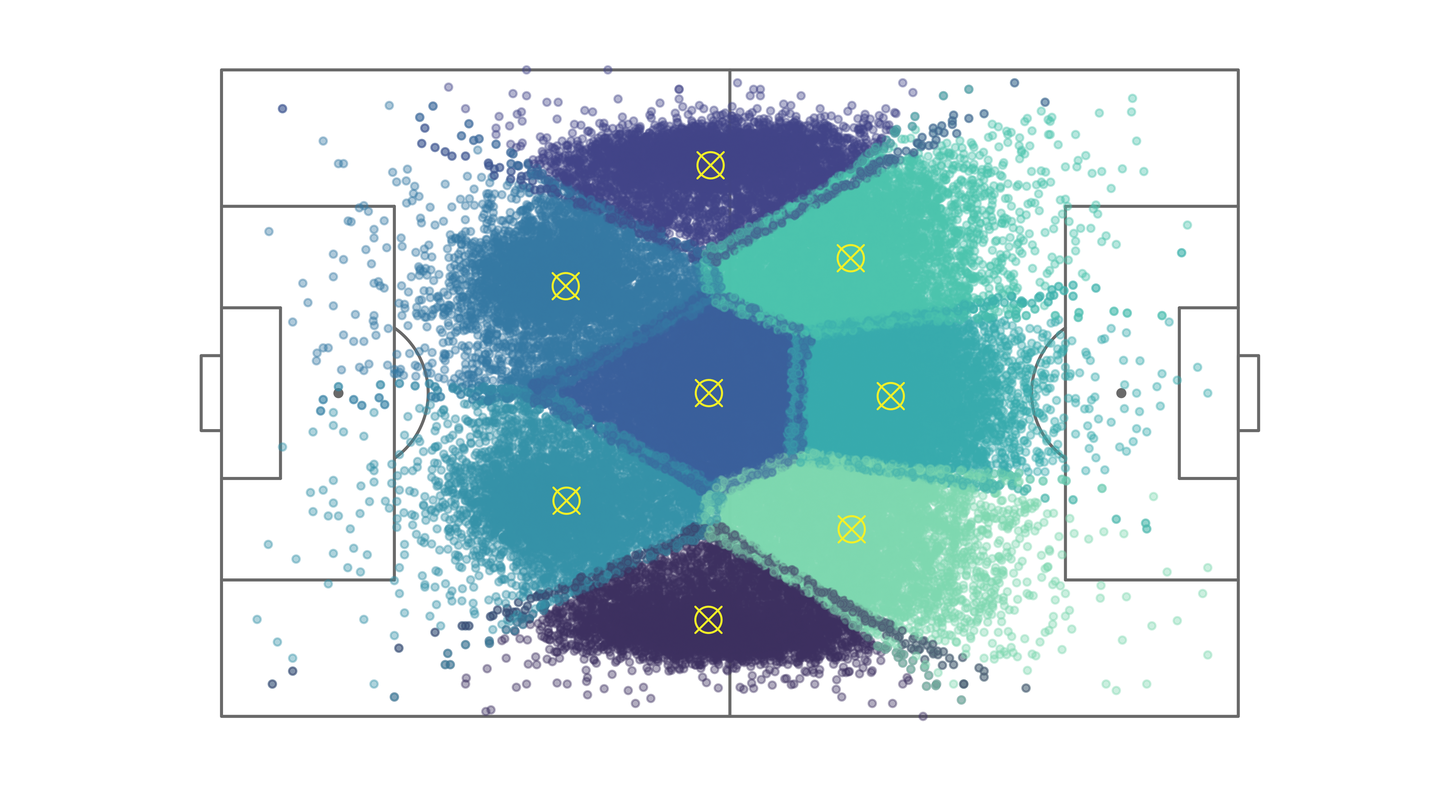
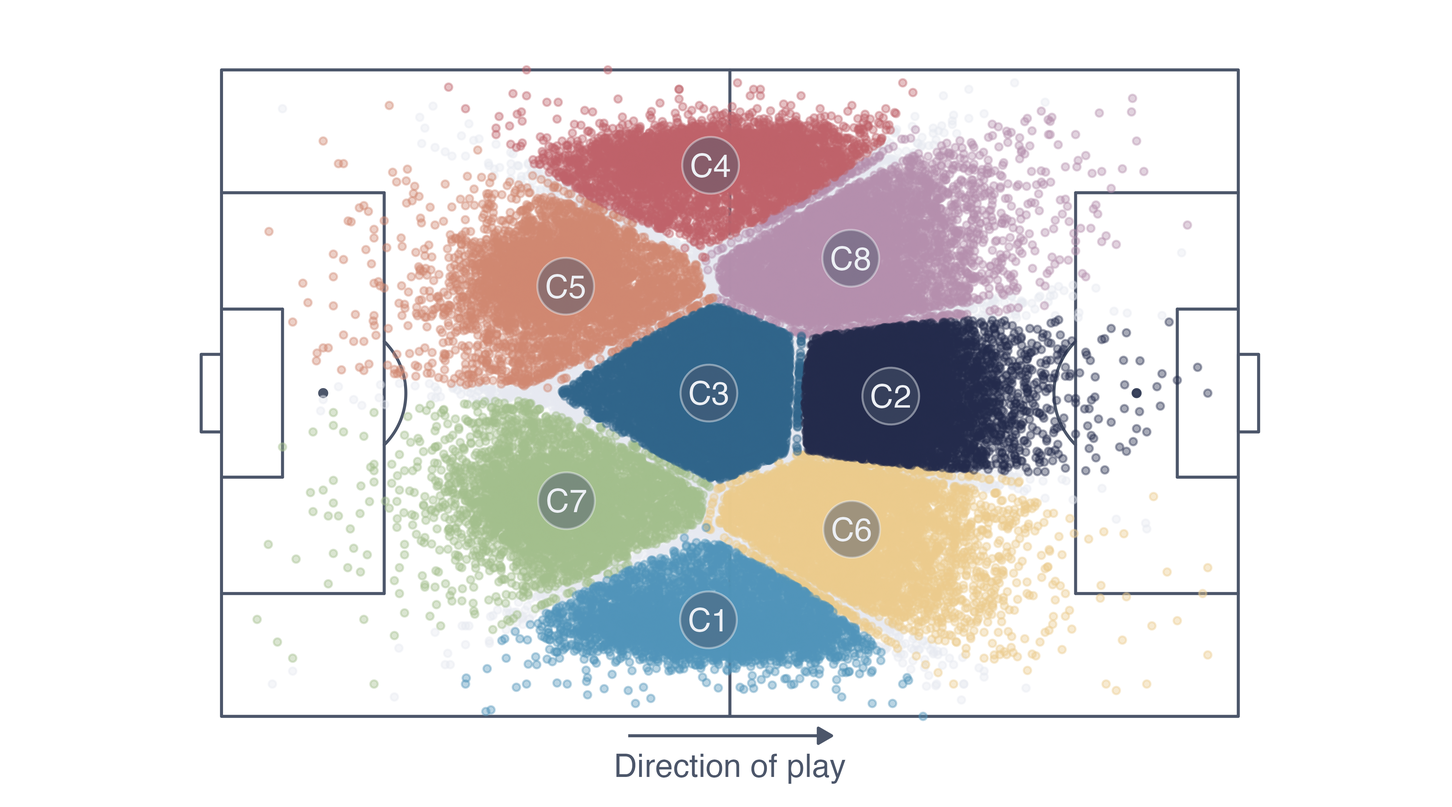
update to figures and paper text

Changed region(s): [[0.1553, 0.0618, 0.8694, 0.9581], [0.1242, 0.4327, 0.1553, 0.5563], [0.1863, 0.8036, 0.2174, 0.8345]]

diff --git a/README.md b/README.md
@@ -1,31 +1,38 @@
 # Introduction
 
-Data-driven performance evaluation of players is becoming more widely used in the soccer industry\cite{developing_brooks_2016,actions_decroos_2019, quantifying_duch_2010, playerank_pappalardo_2019}. For a team, the ability to compare players is critical to success as it provides decision support to many areas, i.e. which athletes to include on match day rosters, which to start and who to substitute, who to target for roster building during the transfer windows for professionals or who to recruit for collegiate teams\cite{crew_2023}. As such, there is great interest in the creation of a data-driven performance rating metric that quantifies the quality of a player's performance based on related spatio-temporal events during a match. The rating can then be used for a direct comparison of players. 
+Data-driven performance evaluation of players is becoming more widely used in the soccer industry[2, 3, 4, 15]. For a team, the ability to compare players is critical to success as it provides decision support to many areas, e.g. which athletes to include on match day rosters, which to start and who to substitute, who to target for roster building during the transfer windows for professionals or who to recruit for collegiate teams[1]. As such, there is great interest in the creation of a data-driven performance rating metric that quantifies the quality of a player's performance based on related spatio-temporal events during a match. The rating can then be used for a direct comparison of players.
 
-One such rating, PlayeRank, proposed by Pappalardo et al., was groundbreaking in three areas: it was the first multi-dimensional rating approach; the first to considered the specificity of each player's role on the field; and the first to evaluate the goodness of ranking in a quantitative manner similar to recommender systems in Information Retrieval. The authors offer several areas for potential improvement, one specifically mentioned is development of improved methods for identifying a player's role within a match or a specific portion of it. Due to the modular nature of PlayeRank, an other methods of role detection can be seamlessly integrated allowing users to personalize role detection based on their individual requirements.\cite{playerank_pappalardo_2019}.
+One such rating, PlayeRank, proposed by Pappalardo et al. [15], was groundbreaking in three areas: it was the first multi-dimensional rating approach; the first to consider the specificity of each player's role on the field; and the first to evaluate the goodness of ranking in a quantitative manner similar to recommender systems in Information Retrieval. The authors offer several areas for potential improvement, one specifically mentioned is development of improved methods for identifying a player's role within a match or a specific portion of it. Due to the modular nature of PlayeRank, other methods of role detection can be seamlessly integrated allowing users to personalize role detection based on their individual requirements [15].
 
-In this paper we will follow in the footsteps of Pappalardo et al. with regard to the player role detection. We will attempt to verify and potentially improve upon their results through the use of unsupervised machine learning methods to identify a set of player roles utilizing match events in a soccer-logs dataset. 
+In this paper we will follow in the footsteps of Pappalardo et al. [15] with regard to the player role detection. We will attempt to verify and potentially improve upon their results through the use of unsupervised machine learning methods to identify a set of player roles utilizing match events in a soccer-logs dataset.
 
 # Related Works
-The advent of extensive data sets depicting soccer performance has greatly contributed to the recent progress in soccer analytics. Soccer-logs, comprehensive records of all events taking place during a match, have emerged as a prevalent data format, enabling analysis of various aspects of soccer at both team and individual levels\cite{public_pappalardo_2019, playerank_pappalardo_2019}. One aspect of PlayeRank that is of particular interest is role detection\cite{playerank_pappalardo_2019}.
 
-### Performance Metrics and Evaluation 
-Prior to PlayeRank, there were various approaches to evaluating player performance. One of the pioneering efforts was the flow centrality (FC) metric, a network approach that quantifies individual player contributions and overall team performance. It provided a comprehensive evaluation of player performance and its impact on team outcomes\cite{quantifying_duch_2010}. Another interesting metric was the Pass Shot Value (PSV) metric, which focuses on the value of completed passes and utilizes a supervised machine learning model to analyze pass locations and their relationship to generating shot opportunities\cite{developing_brooks_2016}. However, both of these metrics struggled to be adequate when applied outside of attacking players. PlayeRank, follows those earlier attempts, and sought to overcome their shortcomings. It is a multi-dimensional, data-driven framework and provides role-aware evaluation of player performance\cite{playerank_pappalardo_2019}.
+The advent of extensive data sets depicting soccer performance has greatly contributed to the recent progress in soccer analytics. Soccer-logs, comprehensive records of all events taking place during a match, have emerged as a prevalent data format, enabling analysis of various aspects of soccer at both team and individual levels[14, 15]. One aspect of PlayeRank that is of particular interest is role detection[15].
+
+### Performance Metrics and Evaluation
+
+Prior to PlayeRank, there were various approaches to evaluating player performance. One of the pioneering efforts was the flow centrality (FC) metric, a network approach that quantifies individual player contributions and overall team performance. It provided a comprehensive evaluation of player performance and its impact on team outcomes[4]. Another interesting metric was the Pass Shot Value (PSV) metric, which focuses on the value of completed passes and utilizes a supervised machine learning model to analyze pass locations and their relationship to generating shot opportunities[2]. However, both of these metrics struggled to be adequate when applied outside of attacking players, i.e. defending players. PlayeRank, follows those earlier attempts, and sought to overcome their shortcomings. It is a multi-dimensional, data-driven framework and provides role-aware evaluation of player performance[15].
 
 ### Player Role Recognition through Spatio-Temporal Events
-One of the problems that plagued early attempts at data-driven player evaluation was lack of role awareness. Early attempts did not distinguish between where players were located on the pitch and what tasks they were assigned within the team's tactical structure. These approach shortcomings were noted by their developers\cite{developing_brooks_2016, quantifying_duch_2010}. PlayeRank was the first metric which proposed a method for producing a role-aware player evaluation\cite{playerank_pappalardo_2019}. Outside of the sport of soccer, other methods existed for role detection via spatio-temporal events\cite{spatiotemporal_gudmundsson_2017, schulte_2017}. However, these techniques were found inadequate when applied to soccer due to its lower event density \cite{playerank_pappalardo_2019}.   
+
+One of the problems that plagued early attempts at data-driven player evaluation was lack of role awareness. Early attempts did not distinguish between where players were located on the pitch and what tasks they were assigned within the team's tactical structure. These approach shortcomings were noted by their developers[2, 4]. PlayeRank was the first metric that proposed a method for producing a role-aware player evaluation[15]. Outside of the sport of soccer, other methods existed for role detection via spatio-temporal events[6, 18]. However, these techniques were found inadequate when applied to soccer due to its lower event density [15].
 
 # Methodology
-This project aims to reproduce the role detection results found by Pappalardo et al. \cite{playerank_pappalardo_2019}. In order to meaningfully compare and verify those findings, we adopt the same overall average silhouette width $\bar{s}_{k}$, or silhouette score, to validate our methods. This is the mean of $s_{i}$ for all $i$ in the data set, with $s_i$ defined as: $$s_{i} =\frac{b_i - a_i}{\textsf{max}(a_i, b_i)}$$ where, $a_i$ is the mean intra-cluster dissimilarity, and $b_i$ is the mean nearest-cluster dissimilarity \cite{rousseeuw_1987}.
 
-We make use of a public data set of soccer-logs from Wyscout consisting of 3,251,294 events from 1,941 matches and 4,299 players. This data set includes the 2017/18 seasons of the first division competitions in England, France, Germany, Italy, and Spain, as well as the 2018 Fédération Internationale de Football Association (FIFA) World Cup and the 2016  Union of European Football Associations (UEFA) European Football Championship \cite{public_pappalardo_2019}. Each event record consists of twelve items describing seven characteristics, of which the following four were of primary interest in our study:
+This project aims to reproduce the role detection results found by Pappalardo et al. [15]. In order to meaningfully compare and verify those findings, we adopt the same overall average silhouette width $\bar{s}_{k}$, or silhouette score, to validate our methods. This is the mean of $s_{i}$ for all $i$ in the data set, with $s_i$ defined as: $$s_{i} =\frac{b_i - a_i}{\textsf{max}(a_i, b_i)}$$ where, $a_i$ is the mean intra-cluster dissimilarity, and $b_i$ is the mean nearest-cluster dissimilarity [17].
+
+We make use of a public data set of soccer-logs from Wyscout consisting of 3,251,294 events from 1,941 matches and 4,299 players. This data set includes the 2017/18 seasons of the first division competitions in England, France, Germany, Italy, and Spain, as well as the 2018 Fédération Internationale de Football Association (FIFA) World Cup and the 2016 Union of European Football Associations (UEFA) European Football Championship [14]. Each event record consists of twelve items describing seven characteristics, of which the following four were of primary interest in our study:
+
+```{=tex}
 \begin{enumerate}
   \item eventId, eventName, subEventId, subEventName, tags: type of event and additional information
   \item matchId: identifier for the match
   \item playerId: identifier for player who generated the event
   \item positions: $(x, y)$ coordinate pair origin and destination positions of the event $(x,y) \in [0, 100]$ ($x$ and $y$ indicate event's nearness to opponent's goal and nearness to right side of the pitch, respectively, in percentage)
 \end{enumerate}
-We omit goalkeeping events and goalkeepers from the analysis as the role has different rules from other players. 
+```
+We omit goalkeeping events and goalkeepers from the analysis as the role has different rules from other players. After removing events originating with goalkeepers, there were 2,873,772 events remaining which resulted in a total of 49,495 player-match groups. The distribution of these observations is shown in @fig-events. The mean number of events per player per match was $\mu = 73$ with a standard deviation of $\sigma = 26.5$, a minimum of $1$ and a maximum of $225$.
 
 :::{#fig-events}
 
@@ -34,13 +41,13 @@ We omit goalkeeping events and goalkeepers from the analysis as the role has dif
 Distribution of Events by Player-Match Group
 :::
 
-In order to achieve our goal, we implement, in R, the same method introduced by Pappalardo et al. \cite{playerank_pappalardo_2019}. This method calculates a *center of performance* for each player in each match by average position $(\bar{x}, \bar{y})$ of events generated by the player $u$ in a given match $m$, such that a *center of performance* for a given player and match is denoted $c_u^m = (\bar{x}, \bar{y})$. A *soft clustering* is then applied by k-means over the *centers of performance* of all players in all matches. The *soft clustering* allows for "hybrid" roles, where the *center of performance* is assigned to two or more clusters based on a tolerance threshold, $\delta_{s}$. 
+In order to achieve our goal, we implement the same method introduced by Pappalardo et al. [15]. This method calculates a *center of performance* for each player in each match by average position $(\bar{x}, \bar{y})$ of events generated by the player $u$ in a given match $m$, such that a *center of performance* for a given player and match is denoted $c_u^m = (\bar{x}, \bar{y})$. A soft-clustering is then applied by k-means over the *centers of performance* of all players in all matches. The soft-clustering allows for "hybrid" roles, where the *center of performance* is assigned to two or more clusters based on a tolerance threshold, $\delta_{s}$.
 
-This is accomplished by calculating the silhouette width in reference to all clusters such that for any *center of performance*, $i$, in cluster $C_i$ the silhouette for each cluster $C_k$, where $C_k \ne C_i$, is calculated: 
-$$ s_{iC_k} = \frac{d_i - a_i}{\textsf{max}(a_i, d_i)} $$ 
-where $d_i$ is the mean nearest-cluster dissimilarity to cluster $C_k$. $i$ is assigned to all clusters $C_k$ where $s_{iC_k} \in (0, \delta_{s})$. The silhouette widths are calculated again using the standard method. For hybrid $i$, a average silhouette width is calculated as $\sum_{j=1}^n{s_{ij}} / n$, where $n$ is the total number of clusters $i$ is a member. Papplardo et al. varied $k = 1,...,20$ with $\delta_{s} = 0.1$, or $5%$ of centers classified as "hybrid". They found that $k = 8$ performed best with a silhouette score of $0.43$. We will omit $k = 1$ and consider our first goal met if our implementation likewise finds $k = 8$ to perform best and our silhouette score is within $[0.4085, 0.4515]$.
+This is accomplished by calculating the silhouette width in reference to all clusters such that for any *center of performance*, $i$, in cluster $C_i$ the silhouette for each cluster $C_k$, where $C_k \ne C_i$, is calculated: $$ s_{iC_k} = \frac{d_i - a_i}{\textsf{max}(a_i, d_i)} $$ where $d_i$ is the mean nearest-cluster dissimilarity to cluster $C_k$. $i$ is assigned to all clusters $C_k$ where $s_{iC_k} \in (0, \delta_{s})$. The silhouette widths are calculated again using the standard method. For hybrid $i$, a average silhouette width is calculated as $\sum_{j=1}^n{s_{ij}} / n$, where $n$ is the total number of clusters $i$ is a member. Papplardo et al. varied $k = 1,\ldots,20$ with $\delta_{s} = 0.1$, or $5%$ of centers classified as "hybrid". They found that $k = 8$ performed best with a silhouette score of $0.43$. We will omit $k = 1$ and consider our first goal met if our implementation likewise finds $k = 8$ to perform best and our silhouette score is within $[0.4085, 0.4515]$.
 
-After removing events originating with goalkeepers and calculating *centers of performance*, we had 2,873,772 events which translated into a total of 49,495 *centers of performance*. The distribution of this data is shown in @fig-events. 
+Next we use the same *centers of performance* and evaluation criteria, silhouette score, to evaluate other clustering methods. We select three methods, standard K-means, and two methods that allow for non-spherical clusters, Gaussian Mixed Models, and Gustafson, Kessel, and Babuska Fuzzy K-means. For each method, we repeat the same investigation for $k = 1,\ldots,20$.
+
+All analyses were performed using R Statistical Software v4.3.2 [16]. The public soccer-log data set was accessed with the jsonlite R package [12, 14]. Data manipulation and cleaning was accomplished with various packages from the tidyverse [22, 9]. PlayeRank soft-clustering silhouette calculations were done through extension of the silhouette function from the cluster R package [11]. K-means, Gaussian Mixed Models, and Gustafson, Kessel, and Babuska Fuzzy K-means were done with the stats, mclust, and fclust R packages, respectively [16, 19, 5]. Temporal data was handled with the clock R package [21]. Plots were created using ggplot2, ggsoccer, and ggdist [22, 20, 8, 7].
 
 # Results
 
@@ -52,28 +59,20 @@ Comparison of Silhouette Index by K for four methods
 :::
 
 
-
-
-We proceeded first with an investigation of normal K-means for $K = 1,...,20$. Results from a comparison of the Silhouette Index for each K, revealed the best to be $K = 2, 5, 8$, respectively. The results of this investigation are summarized in @fig-si-comp. PlayeRank \cite{playerank_pappalardo_2019}.
-
-::: {#fig-cluster_comp layout-nrow=2}
+::: {#fig-cluster_comp layout-ncol=2}
 
 ![Gustafson, Kessel, and Babuska Fuzzy K-means](/figs/p_gkb8.png){#fig-gkb8}
 
 ![PlayeRank K-means](/figs/p_prk8.png){#fig-prk8}
 
-![K-means](/figs/p_km8.png){#fig-km8}
-
-![Gaussian Mixed Models](/figs/p_gm9.png){#fig-gm9}
-
-Comparison of Clustering Results by Method
+Comparison of Clustering Results by Method. (a) Roughly the same orientation of clusters as presented in PlayeRank [15], but allowance for non-spherical leads to better clusters. (b) Visually nearly identical to the PlayeRank results; light grey points are hybrid *centers of performance*.
 :::
 
-Implementation of the PlayeRank *soft-clustering* presented some difficulties. Initial algorithms were successfully applied to a subset of the data, however, these failed due to memory issues when applied to the entire dataset. We are close to a solution that works but the time and memory requirements for computation of silhouettes for all *centers of performance* has slowed progress. We were nearly there at least for $k = 8$ tonight, but the R session crashed while running the function for the final calculation of silhouettes. The current results are not yet acceptable, but we are hopeful that over the next few days, the current issues will be resolved and we will be able to verify or dispute the results from PlayeRank.
+We were able to verify the results presented in PlayeRank by Pappalardo et al. [15]. Through our implementation of their algorithm, we found $k = 8$ clusters to have the best silhouette score and and the silhouette score was within our interval of $[0.4085, 0.4515]$ at $0.4151$. Of the other methods attempted, Gustafson, Kessel, and Babuska Fuzzy K-means also produced the best results in terms of silhouette score with $k = 8$ clusters. This method also had a higher silhouette score than the soft-clustering algorithm proposed in PlayeRank, at $0.5483$ indicating better performance. The other two methods performed best at different $k$ number of clusters but did not perform better than either the PlayeRank soft-clustering algorithm or Gustafson, Kessel, and Babuska Fuzzy K-means. The comparison across all $k = 1,\ldots,20$ number of clusters for the four methods is in @fig-si_comp.
 
-# Discussion
+A comparison of the clusters created by the top two methods, Gustafson, Kessel, and Babuska Fuzzy K-means and PlayeRank K-means is in @fig-cluster_comp. The random clusters were re-numbered to their closest match from the plot provided by Pappalardo et al. and to align the cluster colors for better visual comparison. The clustering present in @fig-prk8 closely matches that from PlayeRank and there are some noticeable differences in @fig-gkb8 [15].
 
-There are three areas of interest for possible improvement. The first two relate to the calculation of *centers of performance*. The first is the possible exclusion of players without a significant number of events. The mean of events by player by match is $\mu = 73$ with a standard deviation of $\sigma = 26.5$, as seen in @fig-events. Players with less than $\mu - 2\sigma$ events in a match would most likely indicate either a late substitution or an early one due to injury. In either event, a limited number of events would likely limit the meaningfulness of the calculation as seen in @fig-sparse. The second is an exploration of another way to calculate the *center of performance*. The current method of calculation is a simple average position of all events, this type of calculation of *centers of performance* is unable to accurately account for players who switch area of responsibility within a match as seen in @fig-maor. Finally, the current methodology only takes in to consideration where on the pitch events took place and disregards types of events and their outcomes. A method which includes more information may provide a more accurate clustering. 
+# Discussion 
 
 ::: {#fig-cluster_comp layout-ncol=2}
 
@@ -85,4 +84,33 @@ There are three areas of interest for possible improvement. The first two relate
 Potential Problems with Centers of Performance in PlayeRank
 :::
 
-Another area of improvement is looking into other Clustering Validation Index (CVI). We evaulated our methods based on the Silhouette Index, because that is the metric with which Pappalardo et al. presented their findings \cite{playerank_pappalardo_2019}. However, there exist numerous other internal CVI that be used and potentially verify further that $k = 8$ is the appropriate number of roles among field players on the pitch. 
+We were able to achieve our goals for this project. After implementing the soft-clustering algorithm from PlayeRank, our investigation found nearly identical results to those reported by Pappalardo et al. [15]. Additionally, our use of Gustafson, Kessel, and Babuska Fuzzy K-means resulted in better clusters as evaluated by silhouette score. This is probably a result of the allowance for non-sphereical clusters, which is most evident on the wings, C1 and C4, in @fig-cluster_comp, and likely more accurately models the role of those players.
+
+While we were able to achieve our goals, there are other areas of interest for possible improvement. The first few relate to the calculation of *centers of performance*. The first is the possible exclusion of players without a significant number of events. A player with few events in a match would likely indicate either a late substitution or an early one due to injury. In either event, a limited number of events limits the meaningfulness of the calculation as seen in @fig-sparse. The second is an exploration of another way to calculate the *center of performance*. The current method of calculation, a simple average position of all events, is unable to accurately account for players who switch area of responsibility within a match as seen in @fig-maor. Finally, the current methodology only takes into consideration spatial data of events and leaves out the additional temporal and contextual information available. The two events in @fig-sparse are annotated with this additional information, the event type and when the event took place in the match in terms of period and minute from start of the period. A method which includes this temporal and contextual information may provide a more accurate clustering.
+
+An additional area that warrants further investigation is the consideration of alternative internal clustering validation metrics. In our investigation, we relied on the silhouette score as it was the metric with which Pappalardo et al. presented their findings [15]. The silhouette score is regarded as a dependable internal metric for clustering validation due to its independence from cluster diameter and lack of optimization for Gaussian contexts [10]. However, there is concern with internal clustering validation wherein the metrics used for evaluation are the same as those optimized by the clustering algorithms [13]. Contextual information, such as the assigned position of the player and team tactical formation, could potentially allow for the use of external clustering validation metrics in future research. 
+
+# References
+
+[1] Personal communication with Manager, Player Personnel Columbus Crew. Oct. 2023.
+[2] Joel Brooks, M. Kerr, and J. Guttag. “Developing a Data-Driven Player Ranking in Soccer Using Predictive Model Weights”. KDD (2016). doi: 10.1145/2939672.2939695.
+[3] Tom Decroos et al. “Actions Speak Louder than Goals: Valuing Player Actions in Soccer”. knowledge discovery and data mining (2019). doi: 10.1145/3292500.3330758.
+[4] J. Duch, Joshua S Waitzman, and L. A. N. Amaral. “Quantifying the Performance of Individual Players in a Team Activity”. PLoS ONE (2010). doi: 10.1371/JOURNAL.PONE.0010937.
+[5] M.B. Ferraro, P. Giordani, and A. Serafini. “fclust: An R Package for Fuzzy Clustering”. The R Journal 11 (2019). url: https://journal.r- project.org/archive/2019/RJ- 2019- 017/RJ- 2019- 017.pdf.
+[6] Joachim Gudmundsson and Michael Horton. “Spatio-Temporal Analysis of Team Sports”. ACM Computing Surveys (2017). doi: 10.1145/3054132.
+[7] Matthew Kay. ggdist: Visualizations of Distributions and Uncertainty. R package version 3.3.1. 2023. doi: 10.5281/zenodo. 3879620. url: https://mjskay.github.io/ggdist/.
+[8] Matthew Kay. “ggdist: Visualizations of Distributions and Uncertainty in the Grammar of Graphics”. IEEE Transactions on Visualization and Computer Graphics (2024), pp. 1–11. doi: 10.1109/TVCG.2023.3327195.
+[9] Max Kuhn and Hadley Wickham. Tidymodels: a collection of packages for modeling and machine learning using tidyverse principles. 2020. url: https://www.tidymodels.org.
+[10] Jean-Charles Lamirel, Nicolas Dugué, and Pascal Cuxac. “New eﬀicient clustering quality indexes”. IEEE International Joint Conference on Neural Network (2016). doi: 10.1109/IJCNN.2016.7727669.
+[11] Martin Maechler et al. cluster: Cluster Analysis Basics and Extensions. R package version 2.1.6 — For new features, see the ’NEWS’ and the ’Changelog’ file in the package source). 2023. url: https://CRAN.R-project.org/package=cluster. 
+[12] Jeroen Ooms. “The jsonlite Package: A Practical and Consistent Mapping Between JSON Data and R Objects”. arXiv:1403.2805 [stat.CO] (2014). url: https://arxiv.org/abs/1403.2805.
+[13] Julio-Omar Palacio-Niño and Fernando Berzal Galiano. “Evaluation Metrics for Unsupervised Learning Algorithms”. ArXiv (2019).
+[14] Luca Pappalardo et al. “A public data set of spatio-temporal match events in soccer competitions.” Scientific Data (2019). doi: 10.1038/S41597-019-0247-7.
+[15] Luca Pappalardo et al. “PlayeRank: Data-driven Performance Evaluation and Player Ranking in Soccer via a Machine Learning Approach”. ACM Transactions on Intelligent Systems and Technology (2019). doi: 10.1145/3343172.
+[16] R Core Team. R: A Language and Environment for Statistical Computing. R Foundation for Statistical Computing. Vienna, Austria, 2023. url: https://www.R-project.org/.
+[17] Peter J. Rousseeuw. “Silhouettes: A graphical aid to the interpretation and validation of cluster analysis”. Journal of Computational and Applied Mathematics 20 (1987), pp. 53–65. issn: 0377-0427. doi: https://doi.org/10.1016/0377- 0427(87)90125-7. url: https://www.sciencedirect.com/science/article/pii/0377042787901257.
+[18] Oliver Schulte et al. “Apples-to-Apples: Clustering and Ranking NHL Players Using Location Information and Scoring Impact”. Proceedings of the MIT Sloan Sports Analytics Conference (2017).
+[19] Luca Scrucca et al. Model-Based Clustering, Classification, and Density Estimation Using mclust in R. Chapman and Hall/CRC, 2023. isbn: 978-1032234953. doi: 10.1201/9781003277965. url: https://mclust-org.github.io/book/.
+[20] Ben Torvaney. ggsoccer: Plot Soccer Event Data. R package version 0.1.7. 2022. url: https : / / CRAN . R - project . org / package=ggsoccer.
+[21] Davis Vaughan. clock: Date-Time Types and Tools. R package version 0.7.0. 2023. url: https://CRAN.R-project.org/ package=clock.
+[22] Hadley Wickham et al. “Welcome to the tidyverse”. Journal of Open Source Software 4.43 (2019), p. 1686. doi: 10.21105/ joss.01686.
